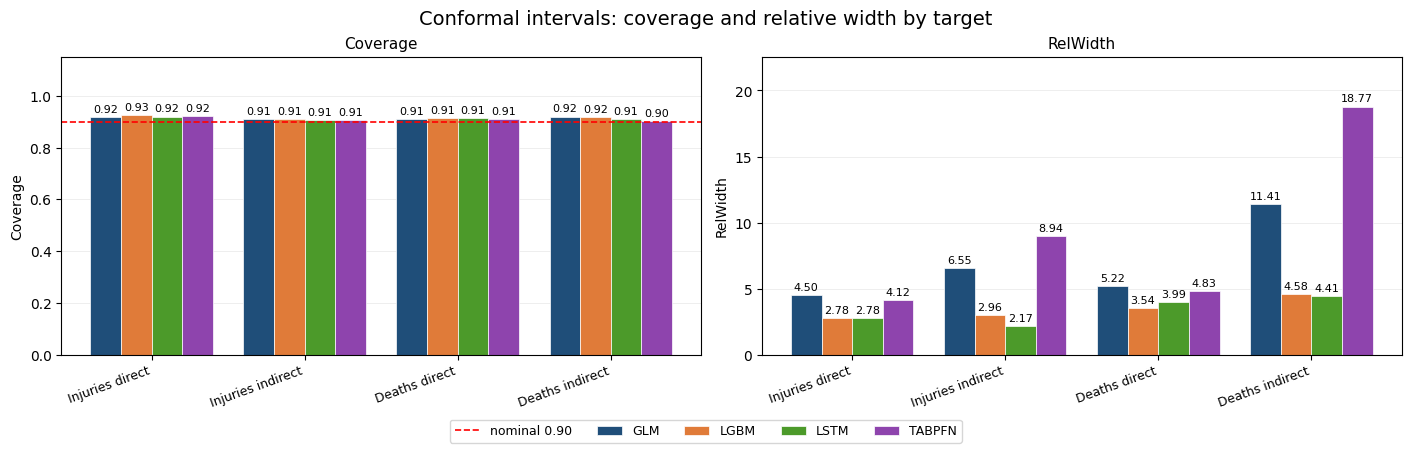
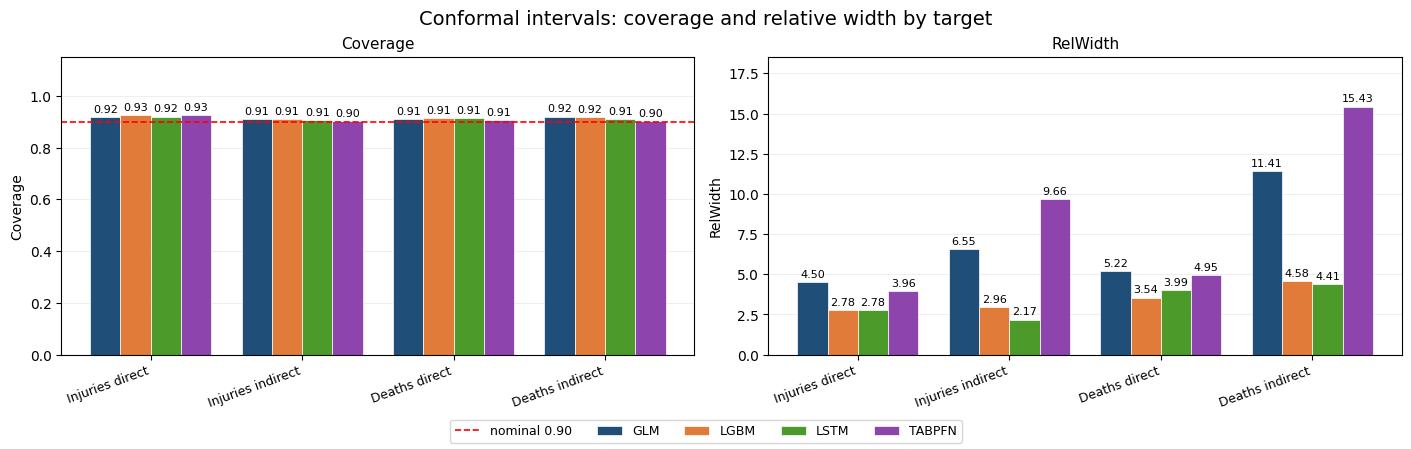
Update README

diff --git a/README.md b/README.md
@@ -124,11 +124,11 @@ The same view for `DEATHS_DIRECT` is visibly calmer. The well-populated groups (
 
 ![Point metrics comparison by target and split, thunderstorm model](images/Thunderstorm_Models_Comparison_Metrics.png)
 
-The largest and most homogeneous slice, and the one where the gradient booster is at its best: **LightGBM leads on all four test targets** (D2 0.43 injuries direct, 0.43 deaths direct, 0.37 injuries indirect, 0.27 deaths indirect), with TabPFN-3 statistically level on the two direct targets and the GLM roughly half as good.
+The largest and most homogeneous slice, and the one where the gradient booster is at its best: **LightGBM leads three of the four test targets** (D2 0.43 injuries direct, 0.37 injuries indirect, 0.27 deaths indirect) and TabPFN-3 edges it on the fourth, `DEATHS_DIRECT`, by 0.44 against 0.43. The two are effectively level on both direct targets, the LSTM sits behind them, and the GLM is roughly half as good. `DEATHS_INDIRECT` is the only target where TabPFN-3 fails outright (D2 −0.04, below the intercept).
 
 ![Conformal coverage and relative width by target, thunderstorm model](images/Thunderstorm_Models_Comparison_Conformal.png)
 
-Coverage is again close to nominal for all four models. LightGBM gives the tightest bands on three targets, the LSTM on `INJURIES_INDIRECT`. Widths are relatively larger than in the global notebook because thunderstorm casualties are rare per event.
+Coverage is again close to nominal for all four models (0.90–0.93). LightGBM gives the tightest bands on the two direct targets and the LSTM on the two indirect ones, while TabPFN-3 pays for its sparse-target trouble with much wider intervals there. Widths are relatively larger than in the global notebook because thunderstorm casualties are rare per event.
 
 #### Backtesting comparison — `INJURIES_DIRECT` and `DEATHS_DIRECT`
 
@@ -137,17 +137,17 @@ The same five expanding-window folds as the global slice (train ≤ 2018 → pre
 Two things come out of it:
 
 - **On `INJURIES_DIRECT` the three nonlinear models are stable and close to interchangeable.** LightGBM, the LSTM and TabPFN-3 are positive in all five years and stay in a narrow range; TabPFN-3 is ahead in three years, LightGBM in the other two, and in every year the distance between them is small. The gap that repeats is the one against the GLM, which is roughly half as good year after year. Unlike the global slice, backtesting and the 2025 test split agree here: on a large, homogeneous slice the ranking does not depend on which year you look at.
-- **On `DEATHS_DIRECT` LightGBM is the most consistent model**, best in four of the five years, and again nothing ever turns negative. The one real movement in the whole thunderstorm backtest is here: the level starts near 0.48 in 2019–2020 and drifts down to about 0.37 by 2023, for all four models at once, which makes it a property of those years rather than of any algorithm. 
+- **On `DEATHS_DIRECT` no model is meaningfully better than the others either.** TabPFN-3 is ahead in three years and LightGBM in the other two, but in 2019 and 2020 the two are separated by about a thousandth of a D2 point, and nothing ever turns negative. The one real movement in the whole thunderstorm backtest is here: the level starts near 0.48 in 2019–2020 and drifts down to about 0.37 by 2023, for all four models at once, which makes it a property of those years rather than of any algorithm. 
 
 ![LightGBM backtest metrics by validation year, injuries direct, thunderstorm model](images/Thunderstorm_LightGBM_Backtest_Metrics_Injuries_Direct.png)
 
 ![LightGBM backtest metrics by validation year, deaths direct, thunderstorm model](images/Thunderstorm_LightGBM_Backtest_Metrics_Deaths_Direct.png)
 
-The two panels are the visual contrast with the global slice: no year collapses, and the metrics stay on the same scale from 2019 to 2023. On `DEATHS_DIRECT` all three metrics are essentially flat. On `INJURIES_DIRECT` only RMSE moves, tracking the severity of each year's worst outbreaks (highest in 2020 and 2023), while D2 and MPD barely react, the same reason the ranking here is read on D2 and MPD.
+Since the three nonlinear models are interchangeable here, LightGBM stands in for all of them in the two panels above, as it does for the intervals further down. The panels are the visual contrast with the global slice: no year collapses, and the metrics stay on the same scale from 2019 to 2023. On `DEATHS_DIRECT` all three metrics are essentially flat. On `INJURIES_DIRECT` only RMSE moves, tracking the severity of each year's worst outbreaks (highest in 2020 and 2023), while D2 and MPD barely react, the same reason the ranking here is read on D2 and MPD.
 
 #### Conformal intervals over the year — `INJURIES_DIRECT` and `DEATHS_DIRECT`
 
-Thunderstorm is a single event group, so there is no per-group breakdown to make: the monthly view *is* the whole slice. LightGBM is shown again, being the tightest of the four models on `DEATHS_DIRECT` and tied tightest on `INJURIES_DIRECT` at nominal coverage.
+LightGBM is shown again, being the tightest of the four models on `DEATHS_DIRECT` and tied tightest on `INJURIES_DIRECT` at nominal coverage.
 
 ![LightGBM monthly conformal intervals, injuries direct, 2025, thunderstorm model](images/Thunderstorm_LightGBM_Conformal_Monthly_Injuries_Direct.png)
 
